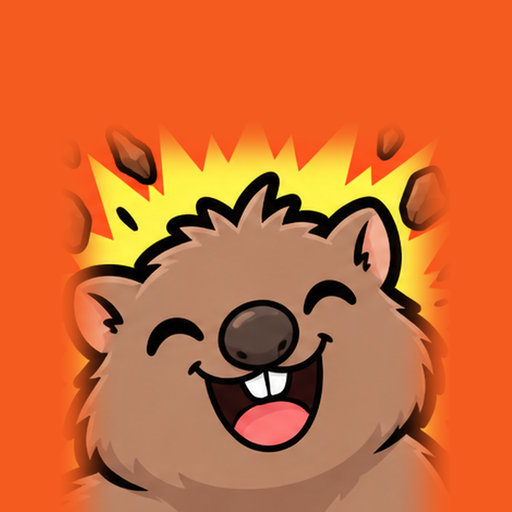
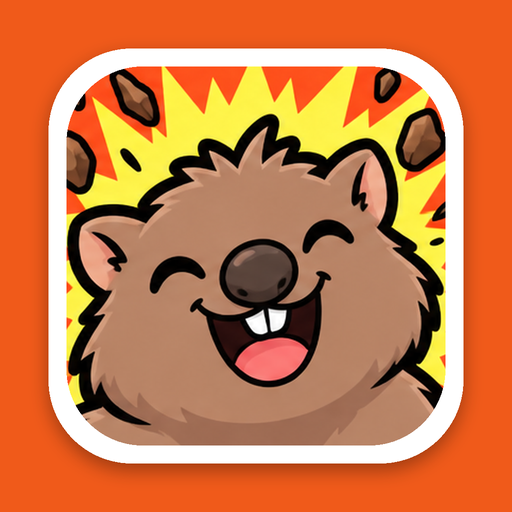
App-icoon: tegel met wit randje op effen oranje (kleiner voor Android)
Claude-Session: https://claude.ai/code/session_01PFkz3mkhyNLrTZMqtyQZkE

diff --git a/sw.js b/sw.js
@@ -1,5 +1,5 @@
 // Wombam! service worker. Verhoog CACHE bij elke nieuwe versie (build.py doet dat vanzelf).
-const CACHE='wombam-v37';
+const CACHE='wombam-v38';
 const EXT='wombam-extern';   // lettertypen en Firebase-software: blijven bewaard bij een nieuwe versie
 const ASSETS=['./','index.html','manifest.webmanifest','icon-192.png','icon-512.png','icon-maskable-512.png','apple-touch-icon.png','favicon.ico','favicon-32.png','img/attack-kaart.webp','img/attack.webp','img/back.webp','img/beard-kaart.webp','img/beard.webp','img/blij.svg','img/defuse-kaart.webp','img/defuse.webp','img/ek-kaart.webp','img/ek.webp','img/face-beard.webp','img/face-future.webp','img/face-melon.webp','img/face-nope.webp','img/face-skip.webp','img/face-taco.webp','img/favor-kaart.webp','img/favor.webp','img/future-kaart.webp','img/future.webp','img/melon-kaart.webp','img/melon.webp','img/nope-kaart.webp','img/nope.webp','img/potato-kaart.webp','img/potato.webp','img/rainbow-kaart.webp','img/rainbow.webp','img/shuffle-kaart.webp','img/shuffle.webp','img/sip.svg','img/skip-kaart.webp','img/skip.webp','img/star.svg','img/taco-kaart.webp','img/taco.webp'];
 

diff --git a/build.py b/build.py
@@ -78,54 +78,45 @@ def wombats():
         (IMG / f'{doel}.svg').write_text(animeer(s, cfg, doel), encoding='utf-8')
 
 
-def _met_marge(im, marge):
-    """Zet de tekening kleiner op een groter vlak in het oranje van de rand; de rand loopt zacht over, zonder naad."""
-    from PIL import ImageDraw, ImageFilter, ImageStat
-    w = im.width
-    strook = [im.crop((0, 0, w, 8)), im.crop((0, w - 8, w, w)), im.crop((0, 0, 8, w)), im.crop((w - 8, 0, w, w))]
-    kleur = tuple(round(sum(ImageStat.Stat(x).mean[i] for x in strook) / 4) for i in range(3))
-    groot = round(w * (1 + 2 * marge))
-    vlak = Image.new('RGB', (groot, groot), kleur)
-    rand = round(w * 0.08)
-    masker = Image.new('L', (w, w), 0)
-    ImageDraw.Draw(masker).rectangle((rand, rand, w - rand, w - rand), fill=255)
-    masker = masker.filter(ImageFilter.GaussianBlur(rand / 2))
-    off = (groot - w) // 2
-    vlak.paste(im, (off, off), masker)
-    return vlak
+ICOON_ACHTERGROND = (240, 90, 26)     # effen oranje rond de tegel
 
 
-def _icoon_marge(sq, schaal):
-    """De tekening kleiner, onderaan in het midden, op een vlak in het oranje van de bovenrand.
-    De wombat loopt zo nog steeds door tot de onderrand; links, rechts en boven komt oranje marge."""
-    from PIL import ImageDraw, ImageFilter, ImageStat
-    w = sq.width
-    kleur = tuple(round(v) for v in ImageStat.Stat(sq.crop((0, 0, w, 6))).mean[:3])
-    vlak = Image.new('RGB', (w, w), kleur)
-    k = round(w * schaal)
-    klein = sq.resize((k, k), Image.LANCZOS)
-    rand = round(k * 0.07)
-    masker = Image.new('L', (k, k), 0)
-    ImageDraw.Draw(masker).rectangle((rand, rand, k - rand, k + rand), fill=255)   # onderrand blijft scherp
-    masker = masker.filter(ImageFilter.GaussianBlur(rand / 2))
-    vlak.paste(klein, ((w - k) // 2, w - k), masker)
+def _icoon_tegel(sq, schaal, n=1024):
+    """Je tekening als afgeronde tegel met een wit randje en een zachte schaduw, midden op effen oranje."""
+    from PIL import ImageDraw, ImageFilter
+
+    def afgerond(maat):
+        m = Image.new('L', (maat, maat), 0)
+        ImageDraw.Draw(m).rounded_rectangle((0, 0, maat - 1, maat - 1), round(maat * 0.2), fill=255)
+        return m
+
+    vlak = Image.new('RGB', (n, n), ICOON_ACHTERGROND)
+    k, b = round(n * schaal), round(n * 0.035)
+    rand = afgerond(k + 2 * b)
+    off = (n - k - 2 * b) // 2
+    schaduw = Image.new('L', (n, n), 0)
+    schaduw.paste(rand, (off, off + n // 70))
+    schaduw = schaduw.filter(ImageFilter.GaussianBlur(n / 56)).point(lambda v: int(v * 0.35))
+    vlak.paste((0, 0, 0), (0, 0, n, n), schaduw)
+    vlak.paste((255, 255, 255), (off, off, off + k + 2 * b, off + k + 2 * b), rand)
+    vlak.paste(sq.resize((k, k), Image.LANCZOS), (off + b, off + b), afgerond(k))
     return vlak
 
 
 def iconen():
     """bron/icoon.png is een afgerond vierkant met doorzichtige hoeken. We knippen net binnen die hoeken een vol
-    vierkant uit en zetten dat kleiner op oranje, zodat er rondom marge is. Voor Android (soms rond afgesneden) iets kleiner."""
+    vierkant uit en zetten dat als tegel op oranje. Voor Android (dat zelf de vorm kiest, soms rond) iets kleiner."""
     im = Image.open(BRON / 'icoon.png').convert('RGBA')
     w = im.width
     m = round(w * 0.0625)                        # net binnen de afgeronde hoeken
     sq = im.crop((m, m, w - m, w - m)).convert('RGB')
-    ic = _icoon_marge(sq, 0.76)
+    ic = _icoon_tegel(sq, 0.74)
     ic.resize((512, 512), Image.LANCZOS).save(ROOT / 'icon-512.png', optimize=True)
     ic.resize((192, 192), Image.LANCZOS).save(ROOT / 'icon-192.png', optimize=True)
     ic.resize((180, 180), Image.LANCZOS).save(ROOT / 'apple-touch-icon.png', optimize=True)
     ic.resize((32, 32), Image.LANCZOS).save(ROOT / 'favicon-32.png', optimize=True)
     ic.resize((48, 48), Image.LANCZOS).save(ROOT / 'favicon.ico', sizes=[(16, 16), (32, 32), (48, 48)])
-    _icoon_marge(sq, 0.64).resize((512, 512), Image.LANCZOS).save(ROOT / 'icon-maskable-512.png', optimize=True)
+    _icoon_tegel(sq, 0.58).resize((512, 512), Image.LANCZOS).save(ROOT / 'icon-maskable-512.png', optimize=True)
 
 
 def service_worker(ophogen):
